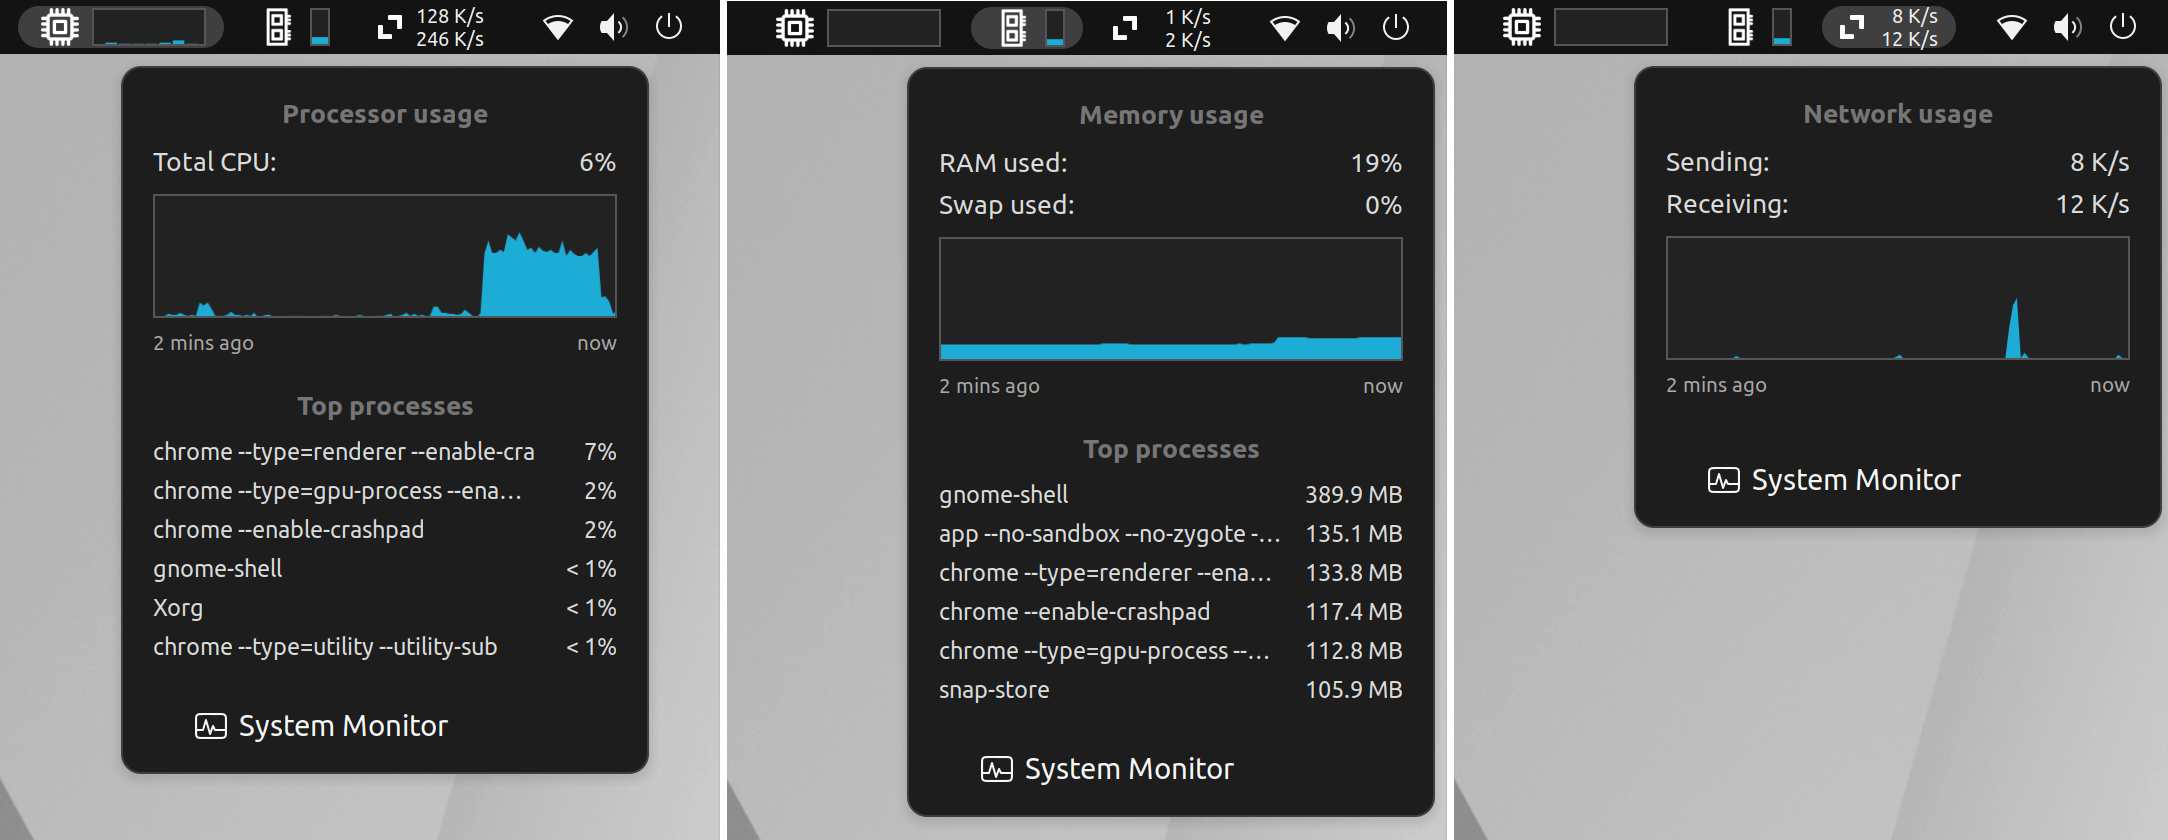
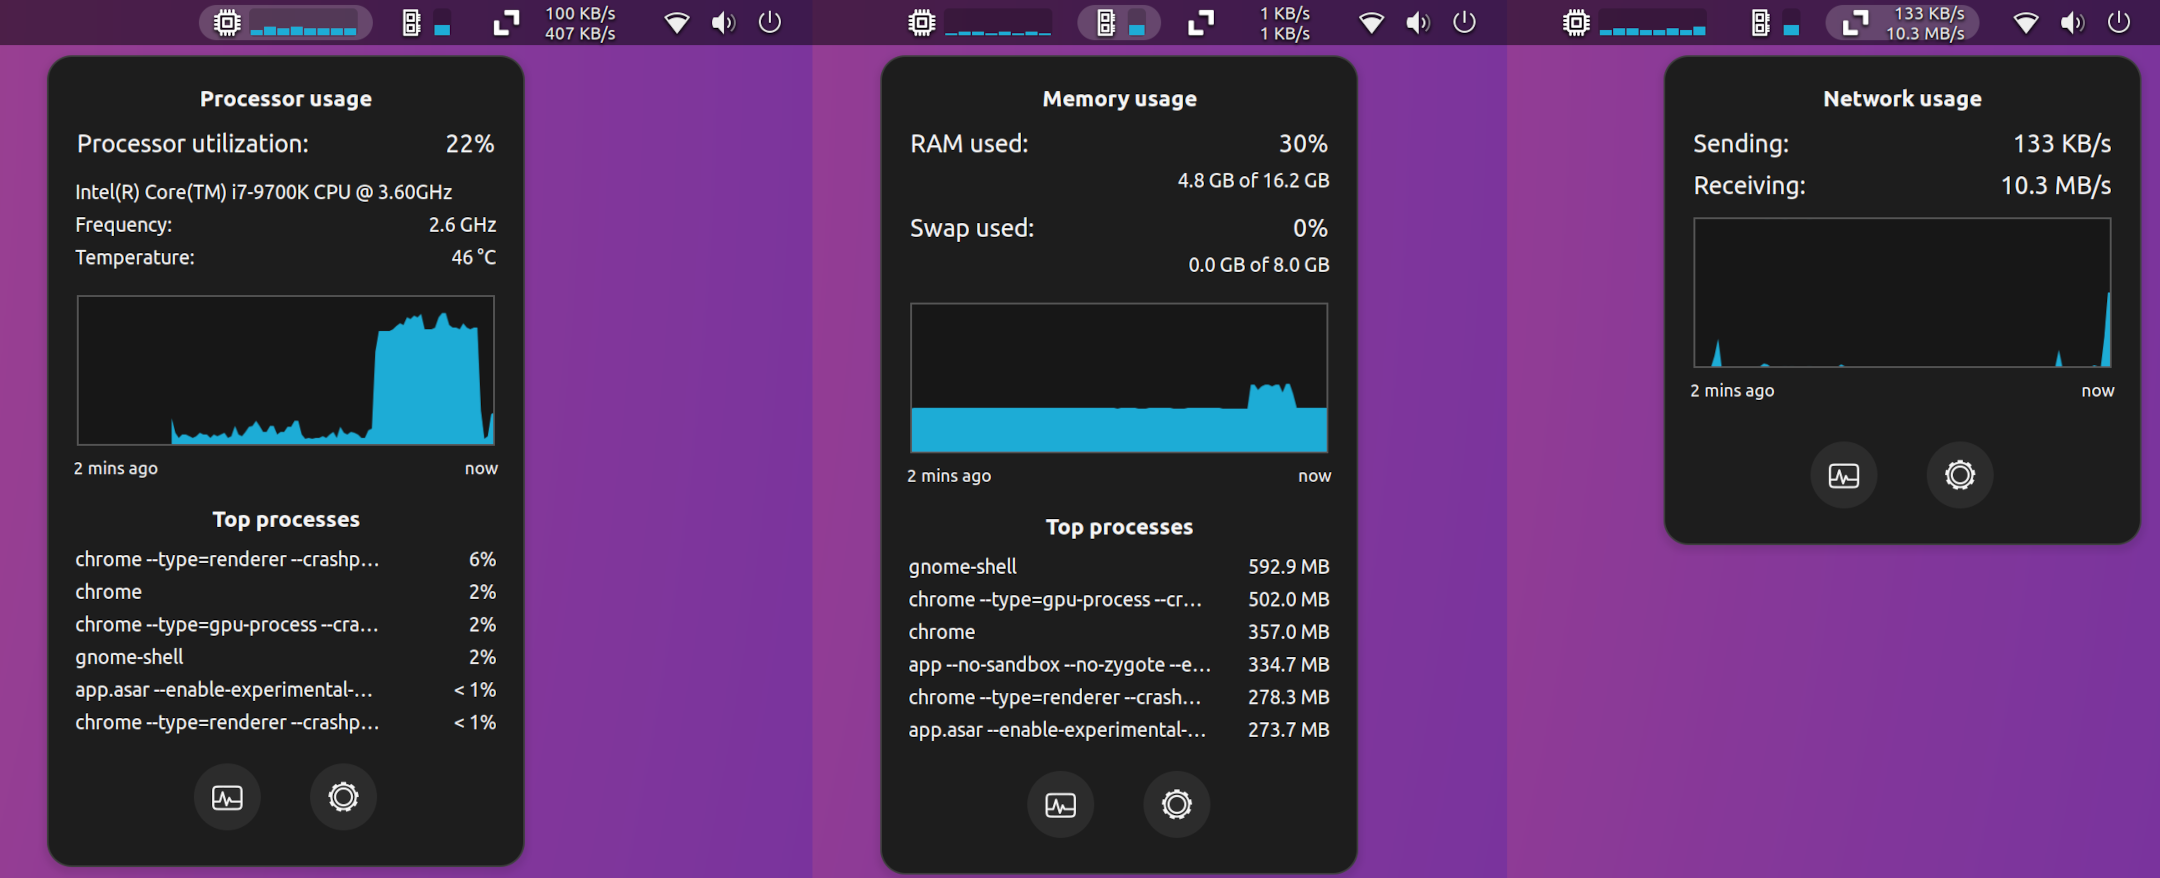
Release TopHat v6

diff --git a/RELEASES.md b/RELEASES.md
@@ -3,11 +3,12 @@
 All notable changes to [TopHat] are listed in this file. The format is loosely
 based on [Keep a Changelog].
 
-## Not yet released
+## TopHat 6 - December 27, 2022
 
 - Added CPU model, clock speed, and temperature to processor menu
 - Added memory size, swap size, and current usage to memory menu
 - Fixed problems with high-resolution displays
+- Fixed miscalculation of per-process memory usage
 
 ## TopHat 5 - November 28, 2022
 

diff --git a/README.md b/README.md
@@ -3,8 +3,7 @@
 TopHat is an elegant system resource monitor for the GNOME shell. It displays
 CPU, memory, and network activity in the GNOME top bar.
 
-<img src="./screenshots/tophat.png?raw=true" width="1084px" alt="Screenshot of
-TopHat">
+<img src="./screenshots/tophat.png?raw=true" width="1080px" alt="Screenshot of TopHat">
 
 ## Installation
 
